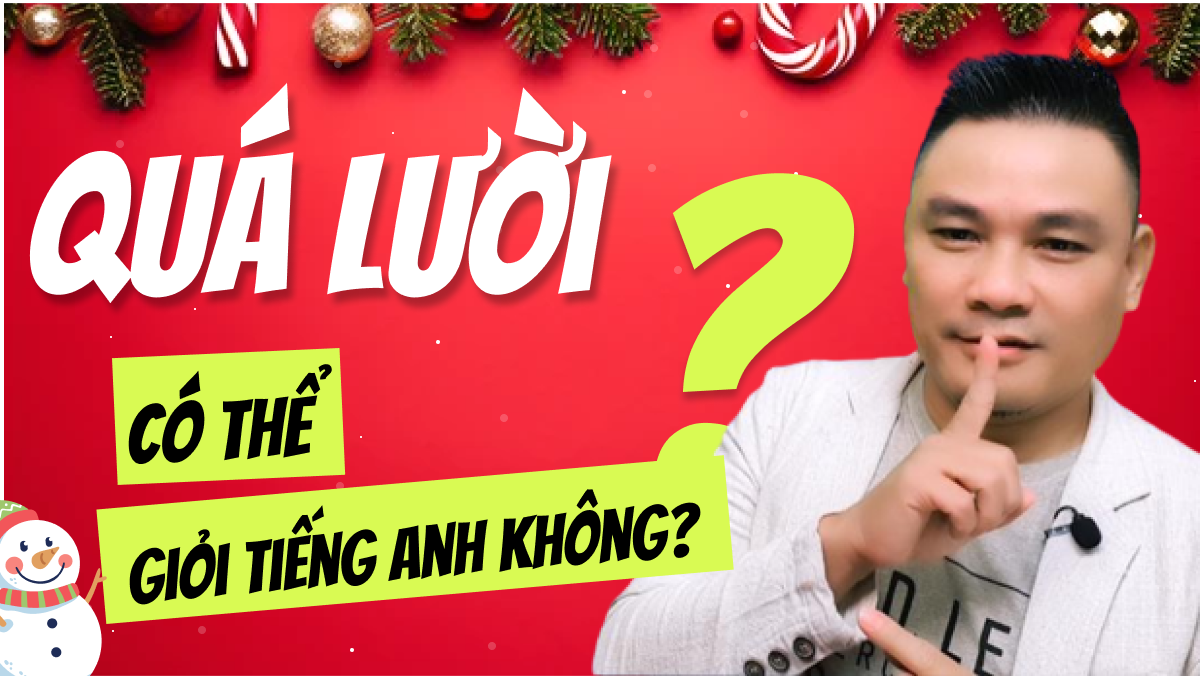
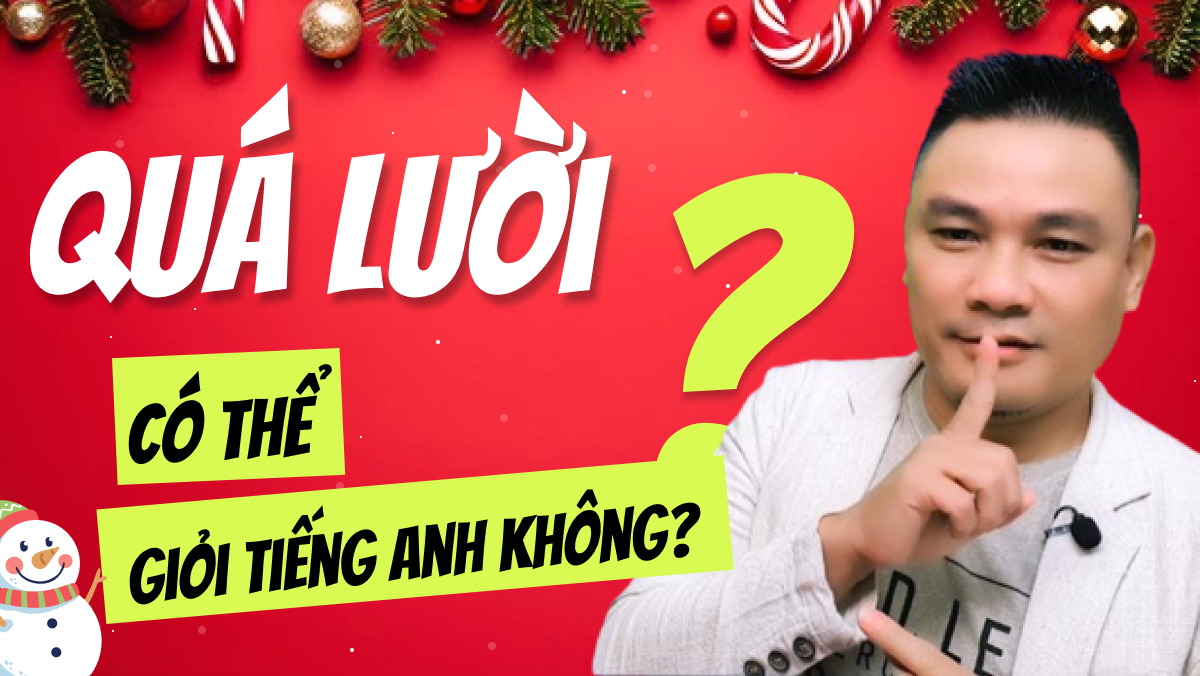
add

Changed region(s): [[0.0, 0.0, 1.0, 0.7145], [0.0617, 0.9941, 0.4933, 1.0]]

diff --git a/index.html b/index.html
@@ -4,7 +4,7 @@
 		<meta charset="UTF-8" />
 		<meta http-equiv="X-UA-Compatible" content="IE=edge" />
 		<meta name="viewport" content="width=device-width, initial-scale=1.0" />
-		<title>Document</title>
+		<title>Webinar Chistmas</title>
 
 		<link
 			rel="stylesheet"
@@ -62,7 +62,7 @@
 					<span class="play-icon">
 						<i class="fas fa-play"></i>
 					</span>
-					<video video-controler poster="./assets/img/thumbnailChristmas.png">
+					<video video-controler poster="./assets/img/thumbnailChristmas.webp">
 						<source
 							src="https://static.langkingdom.com/webinars/videos/LP-hero-220814.mp4"
 							type="video/mp4"
